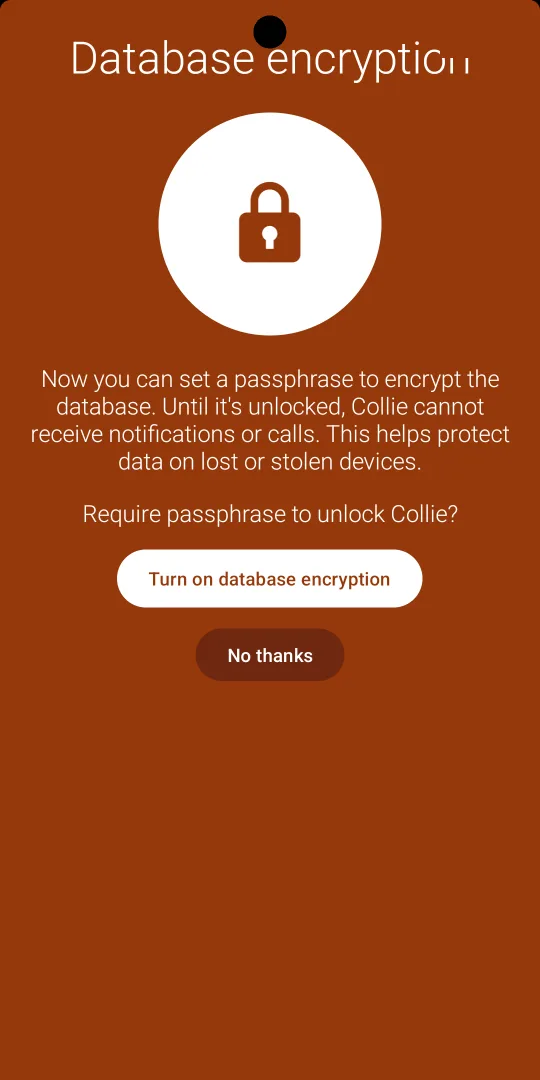
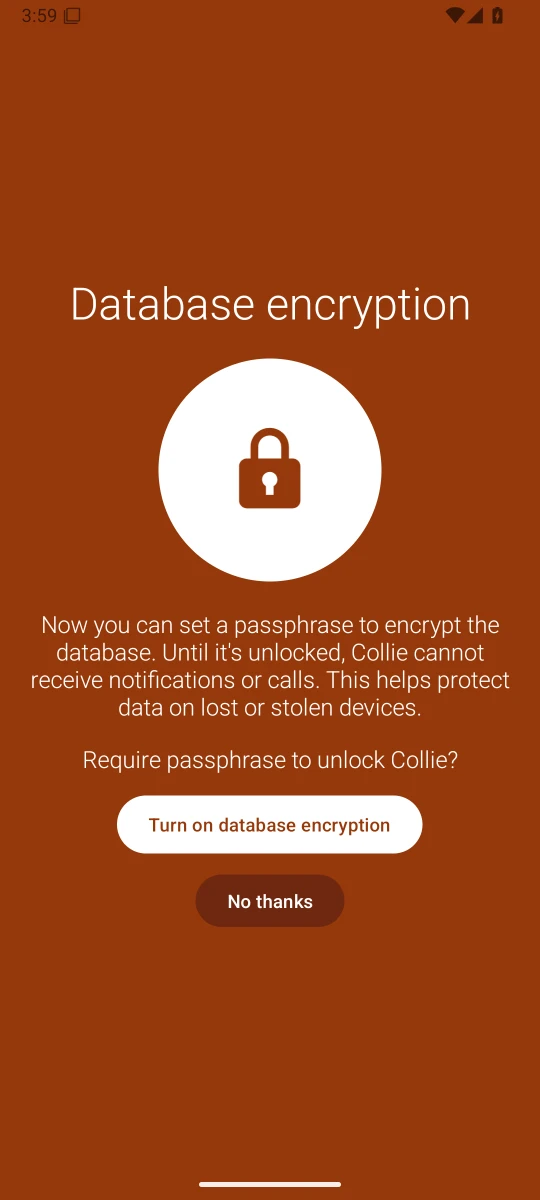
Use the centered database encryption screen on collie.im
Replace the pre-fix capture with the API 35 screenshot validated after PR 86. Match the image dimensions to the uncropped screen so the website reserves the correct space. The same source capture is committed to main for Fastlane.

Layer: website

Changed region(s): [[0.0296, 0.0, 0.9481, 0.7944], [0.3556, 0.9778, 0.6222, 1.0], [0.8296, 0.0, 0.9481, 0.0306]]

diff --git a/docs/site/index.html b/docs/site/index.html
@@ -71,7 +71,7 @@ FORM: User-pinned direction (palette, fonts, dark hero with lichen cards), no ro
     </div>
     <figure class="stage" aria-label="Collie screens: the lock screen, database encryption and the Tor and proxy choice">
       <svg class="ring" viewBox="0 0 400 400" aria-hidden="true"><circle cx="200" cy="200" r="186"/></svg>
-      <div class="phone p-left"><img src="assets/screens/encryption.webp" alt="Database encryption screen offering to turn on a passphrase" width="540" height="1080" loading="eager"></div>
+      <div class="phone p-left"><img src="assets/screens/encryption.webp" alt="Database encryption screen offering to turn on a passphrase" width="540" height="1200" loading="eager"></div>
       <div class="phone p-right"><img src="assets/screens/proxy.webp" alt="Use proxy dialog with None, Tor via Orbot and SOCKS5" width="540" height="1080" loading="eager"></div>
       <div class="phone p-front"><img src="assets/screens/locked.webp" alt="Collie is locked: enter passphrase to unlock" width="540" height="1080" loading="eager"></div>
     </figure>
